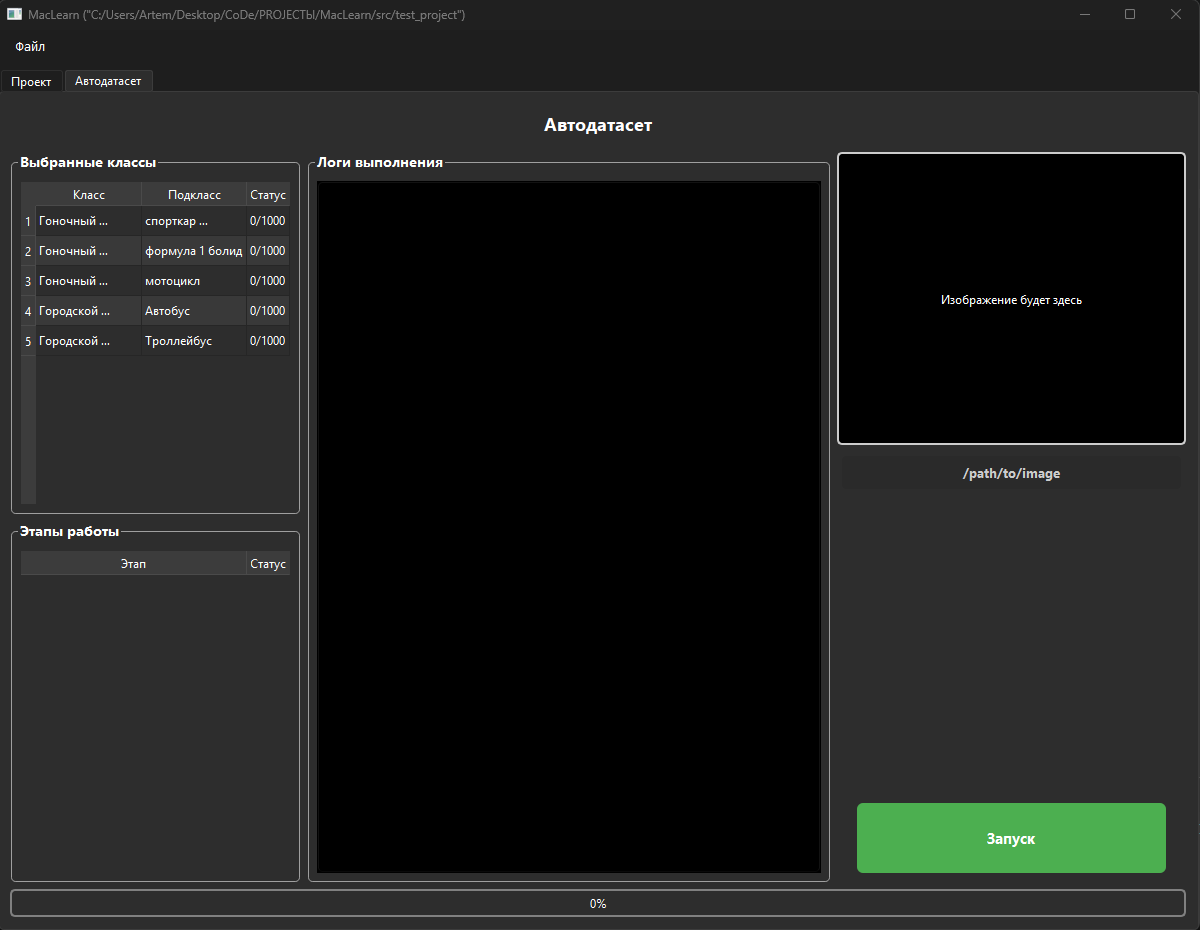
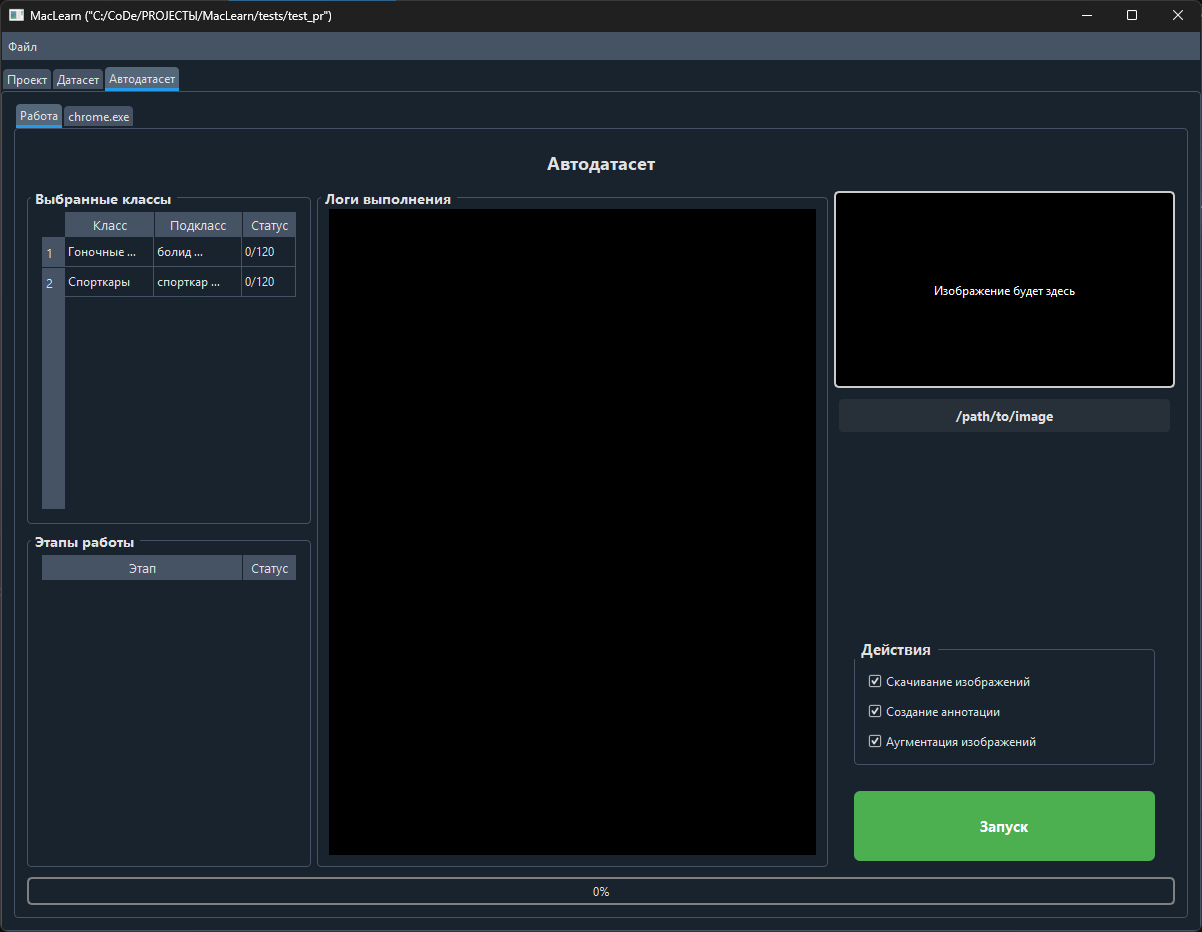
Documentation update!

Changed region(s): [[0.0, 0.0, 1.0, 1.0], [0.7708, 0.3118, 0.8942, 0.343], [0.9867, 0.0935, 1.0, 0.1247]]

diff --git a/doc/documentation.md b/doc/documentation.md
@@ -1,85 +1,167 @@
-# Пояснительная записка по MacLearn
-Функции, как использовать
+# MacLearn документация
+
+MacLearn — это программа для автоматического сбора и подготовки качественных датасетов из изображений, скачиваемых из интернета. Инструмент предназначен для ML-разработчиков, исследователей и всех, кто работает с компьютерным зрением.
 
 ---
 
-## Функции
-Разберём интерфейс программы, что за что отвечает.
+## Оглавление
 
+- [О проекте](#о-проекте)
+- [Установка и первый запуск](#установка-и-первый-запуск)
+- [Использование программы](#использование-программы)
+  - [Функции меню "Файл"](#функции-меню-файл)
+  - [Вкладка "Проект"](#вкладка-проект)
+  - [Вкладка "Датасет"](#вкладка-датасет)
+  - [Вкладка "Автодатасет"](#вкладка-автодатасет)
+- [Советы по использованию](#советы-по-использованию)
+- [Лицензия](#лицензия)
 
-### Функции "Файл"
-Здесь присутствуют одни из важных функций для управления расположением проекта и с каким будем работать если не хотим перезапускать приложение.
+---
 
-Рассмотрим функции:
+## О проекте
+
+MacLearn автоматизирует самый трудоёмкий этап разработки моделей машинного зрения — сбор и подготовку датасетов.
+Преимущества:
+
+### 🚀 Быстрый сбор данных
+- Сбор тысяч изображений за считанные часы
+- Создание полного датасета на 5000+ изображений в течение 1 дня
+- Автоматическая загрузка и обработка изображений
+- Экспортирование готовых датасетов в популярные форматы (YOLO, CSV и др.)
+
+### 🎯 Качественная разметка
+- Чёткая структуризация данных по классам
+- Создание аннотации изображений
+- Поддержка сложных запросов с множеством вариаций
+- Гибкая система категоризации
+
+### 🤖 Автоматическая аугментация
+- Генерация +4 вариаций для каждого исходного изображения
+- Разнообразие данных для улучшения обучения моделей
+
+### ⚙ Гибкие настройки обработки
+- Возможность получения исходных изображений без обработки
+- Контроль качества и разрешения
+
+### 🖥 Удобный интерфейс для управления датасетом
+- Подготовка данных для датасета
+- Создание и обработка данных с визуализацией
+- Возможность ручной доработки датасетов
+
+---
+
+## Установка и первый запуск
+
+1. **Запустите программу** и выберите папку для проекта.
+2. Если появится окно с вопросом:
+   
+   ![project_not_find.png](https://github.com/b1t0nese/MacLearn/blob/main/doc/images/project_not_find.png?raw=true)
+   
+   Нажмите **«Да»**, если уверены, что выбрали нужную папку.
+3. Откроется окно проекта. Настраивайте проект с помощью функций, описанных ниже.
+4. Для запуска автоматического сбора перейдите во вкладку **«Автодатасет»** и нажмите **«Запуск»**.
+
+---
+
+## Использование программы
+
+### Функции меню "Файл"
+
 ![file_functions.png](https://github.com/b1t0nese/MacLearn/blob/main/doc/images/file_functions.png?raw=true)
 
-* **"Открыть"** -при нажатии открывается окно выбора папки проекта (то же самое что и при запуске программы), при выборе папки программа перезапускается уже с новым проектом который человек выбрал
-* **"Сохранить"** -то же самое что и кнопка "Сохранить проект" во вкладке "Проект", сохраняет конфиг автоматизации установки датасета
-* **"Сохранить как..."** -можно сохранить проект по новому пути, и если нужно сразу перезапустить программу по новому пути
-* **"Выход"** -выход из программы, закрытие проекта
-
-
-### Вкладка "Проект"
-Рассмотрим интерфейс:
-![project_tab.png](https://github.com/b1t0nese/MacLearn/blob/main/doc/images/project_tab.png?raw=true)
-
-Первым делом нас встречает раздел "Классы объектов", он включает в себя поле классов, где мы можем добавлять классы и изменять их "подклассы" (информацию по которой будет поиск изображений). Далее идёт раздел "Настройки датасета".
-Разберём функции каждого раздела
-
-#### Функции классов:
-* Вкл./выкл. класса из работы автодатасета (если данная часть уже была создана)
-* Изменение названия класса, он будет нужен чтобы выделять с каким классом мы работаем, а так же в базе данных это выступает как id класса.
-* Добавление класса через кнопку снизу поля
-* Удаление класса
-* Добавление подкласса
-
-#### Функции подклассов:
-Аналогичны, но есть изменения
-* При нажатии на верхнее поле можно выбрать изображение, оно будет "примером" при поиске похожих изображений.
-* Изменение текста для поиска данных изображений
-* Удаление подкласса
-
-#### Настройки датасета
-Это выбор того что и как будет сделано в датасете
-* **"Создание валидационных данных"** -выбор, скачивать ли дополнительные изображения, которые пойдут в отдельные папки для обучения модели "с учителем"
-* **"Аугментированные изображение"** -выбор, создавать ли изображения с искажениями, в некоторых случаях это может улучшить распознование у модели в плохих условиях
-* **"Аннотация"** -выбор, делать ли "аннотацию" изображений, то есть выделение объекта на изображениях, т.к. это достаточно затратная вещь из-за вычитания координат расположения объекта путём удаления фона, из-за этого выделена как выбор
-* **"Формат аннотации"** -т.к. аннотация у каждого способа обучения разные сделал этот выбор, на данный момент пока-что будет только формат YOLO (самый лёгкий), и для этого будет отдельный удобно расширяемый модуль
-* **"Изображений на класс"** -количество изображений которые будут устанавливаться на класс
-* **"Размер изображений"** -размер исходных изображений в датасете, просто выбираете уже нужный размер из предоставленных
-
-
-### Вкладка "Автодатасет"
-Рассмотрим интерфейс:
-![autodataset_tab.png](https://github.com/b1t0nese/MacLearn/blob/main/doc/images/autodataset_tab.png?raw=true)
-
-В принципе интерфейс в этой вкладке сделан исключительно для визуализации статуса создания датасетов, но так же соответственно имеет функцию запуска и остановки процедуры.
-Разберём виджеты которые мы видим:
-
-#### Виджеты "Автодатасета"
-* **"Выбранные классы"** -таблица которая показывает какие классы вы выбрали и которые пойдут в работу, так же на них можно посмотреть статусы установки изображений
-* **"Этапы работы"** -таблица которая показывает этапы работы программы и их статусы, здесь будет отображаться: установка изображений, аннотация, аугментация, экспорт
-* **"Логи выполнения"** -более подробная информация о статусе выполнения программы в виде текстового вывода
-* **Изображение и его путь справа** -изображение которое было последним обработано/установлено, а так же его путь снизу
-* **Кнопка "Запуск"** -кнопка которая запускает процедуру, в процессе чего отображается уже красным цветом и с текстом "Стоп" при нажатии на кнопку возращается обратно и останавливает работу
-* **Прогрессбар** -самый обычный прогресс бар, который будет отображать общий процент выполненной работы
+- **«Открыть»** — открыть окно выбора папки проекта. При выборе программа перезапускается с новым проектом.
+- **«Сохранить»** — сохранить конфигурацию автоматизации (аналог кнопки «Сохранить проект» во вкладке «Проект»).
+- **«Сохранить как...»** — сохранить проект по новому пути с возможностью сразу перезапустить программу.
+- **«Экспорт датасета»** — экспортировать датасет в папку проекта согласно настройкам.
+- **«Экспорт датасета как...»** — экспортировать датасет по указанному пользователем пути.
+- **«Выход»** — закрыть программу.
 
 ---
 
-## Пользование
+### Вкладка "Проект"
 
-### Советы по пользованию
-* Пожалуйста, не изменяйте вручную содержимое проекта. Всё делается только через программу! Если так нужна ручная обработка то ждите следующие версии, т.к. сейчас даже автодатасет ещё не до конца работает.
-* Не забывайте сохранять настройки проекта после изменений
-* Не перекрывайте окно Chrome когда идёт установка изображений, иначе в это время изображения не смогут быть установленными
+![project_tab.png](https://github.com/b1t0nese/MacLearn/blob/main/doc/images/project_tab.png?raw=true)
 
-### Инструкция по первому запуску программы
-Всё достаточно легко:
-* 1) Запускаем программу и выбираем папку
-* 2) Если будет такой вопрос
-![project_not_find.png](https://github.com/b1t0nese/MacLearn/blob/main/doc/images/project_not_find.png?raw=true)
-    Нажимаем "Да" если уверены что выбрали ту папку
-* 3) Далее у нас открывается окно проекта и пользуемся функциями настраивая проект, по тому как я их описал
-* 4) Если хотим запустить создание датасета у нас должны быть подготовлены данные в первой вкладке, если они уже есть то переходим во вторую вкладку "Автодатасет", нажимаем "Запуск" и смотрим как создаётся наш датасет.
+#### Раздел «Классы объектов»
 
-![autodataset_tab_in_work.png](https://github.com/b1t0nese/MacLearn/blob/main/doc/images/autodataset_tab_in_work.png?raw=true)
+- **Вкл./выкл. класса** — включает или исключает класс из работы автодатасета.
+- **Изменение названия класса** — название используется как идентификатор в базе данных.
+- **Добавление класса** — кнопка снизу поля.
+- **Удаление класса** — удалить выбранный класс.
+- **Добавление подкласса** — создать подкласс для уточнения поиска.
+
+##### Подклассы
+
+- **Поле с изображением** — можно выбрать изображение-пример для поиска похожих.
+- **Текст для поиска** — поисковый запрос для данного подкласса.
+- **Удаление подкласса** — удалить подкласс.
+
+#### Раздел «Настройки датасета»
+
+- **«Создание валидационных данных»** — скачивать дополнительные изображения для валидации.
+- **«Аугментированные изображения»** — создавать искажённые копии для улучшения распознавания.
+- **«Аннотация»** — выделять объекты на изображениях (ресурсоёмкая операция).
+- **«Формат аннотации»** — выбор формата разметки (на данный момент YOLO).
+- **«Изображений на класс»** — количество изображений для каждого класса.
+- **«Размер изображений»** — выбор размера исходных изображений.
+
+---
+
+### Вкладка "Датасет"
+
+![dataset_tab.png](https://github.com/b1t0nese/MacLearn/blob/main/doc/images/dataset_tab.png?raw=true)
+
+#### Основные функции
+
+- **«Выбор класса»** — переключение между классами в TabBar.
+- **«Обновление данных»** — синхронизация с файловой системой.
+- **«Экспорт датасета»** — выгрузить датасет по выбранному пути (по умолчанию — папка проекта).
+
+#### Виджеты
+
+##### Поле изображений «для типов»
+
+![images_field_widget.png](https://github.com/b1t0nese/MacLearn/blob/main/doc/images/images_field_widget.png?raw=true)
+
+- **«Экспорт изображений поля»** — выгрузить изображения текущего поля.
+- **«Импорт изображений в поле»** — загрузить изображения из папки.
+- **«Удаление изображений»** — удалить все изображения данного типа.
+- **«+»** — добавить одно изображение в проект.
+
+##### Карта изображения
+
+![image_card.png](https://github.com/b1t0nese/MacLearn/blob/main/doc/images/image_card.png?raw=true)
+
+- **Клик по изображению** — открыть окно ручного редактирования.
+- **«Удалить»** — удалить конкретное изображение.
+
+---
+
+### Вкладка "Автодатасет"
+
+![autodataset_tab.png](https://github.com/b1t0nese/MacLearn/blob/main/doc/images/autodataset_tab.png?raw=true)
+![autodataset_tab_chrome.png](https://github.com/b1t0nese/MacLearn/blob/main/doc/images/autodataset_tab_chrome.png?raw=true)
+
+#### Виджеты
+
+- **Вкладки «Работа» и «chrome.exe»** — вторая вкладка позволяет поместить окно браузера внутрь программы.
+- **«Выбранные классы»** — таблица со статусами установки изображений.
+- **«Этапы работы»** — статусы этапов: установка, аннотация, аугментация, экспорт.
+- **«Логи выполнения»** — подробный текстовый вывод.
+- **Превью изображения** — последнее обработанное изображение и его путь.
+- **Кнопка «Запуск/Стоп»** — запуск и остановка процесса.
+- **Прогрессбар** — общий процент выполнения.
+
+---
+
+## Советы по использованию
+
+- Не изменяйте вручную содержимое папки проекта. Все операции — только через программу.
+- Сохраняйте настройки проекта после изменений.
+- Используйте вкладку **«chrome.exe»**, чтобы окно браузера не мешалось на рабочем столе.
+- Будьте внимательны: функции отмены (Ctrl+Z) в программе нет.
+
+
+## Лицензия
+
+### Проект защищён лицензией [GPL-3.0 license](https://github.com/b1t0nese/MacLearn/blob/main/LICENSE)
